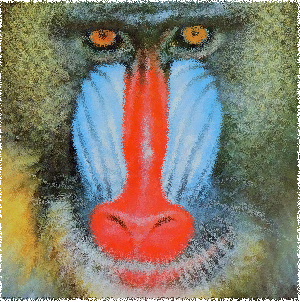
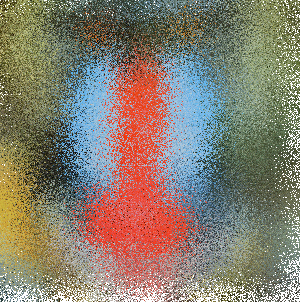
finished exercise 3.1.42, 3.1.33 is still unfinished

diff --git a/section_3_1/exercise_42/Zoom.java b/section_3_1/exercise_42/Zoom.java
@@ -1,0 +1,33 @@
+class Zoom
+{
+	public static void main(String[] args)
+	{
+		final String inputFileName = args[0];
+		final double scaleFactor = Double.parseDouble(args[1]);
+		final double x = Double.parseDouble(args[2]);
+		final double y = Double.parseDouble(args[3]);
+
+		Picture inputImage = new Picture(inputFileName);
+		int width = inputImage.width();
+		int height = inputImage.height();
+		Picture outputImage = new Picture(width, height);
+
+		for (int col = 0; col < width; col++)
+		{
+			for (int row = 0; row < height; row++)
+			{
+				int trueCol = (int)(width * x) - (int)(((int)(width * 0.5) - col) * scaleFactor);
+				int trueRow = (int)(height * y) - (int)(((int)(height * 0.5) - row) * scaleFactor);
+				if (trueCol >= 0 && trueCol < width)
+				{
+					if (trueRow >= 0 && trueRow < height)
+					{
+						outputImage.set(col, row, inputImage.get(trueCol, trueRow));
+					}
+				}	
+			}
+		}
+
+		outputImage.show();
+	}
+}
